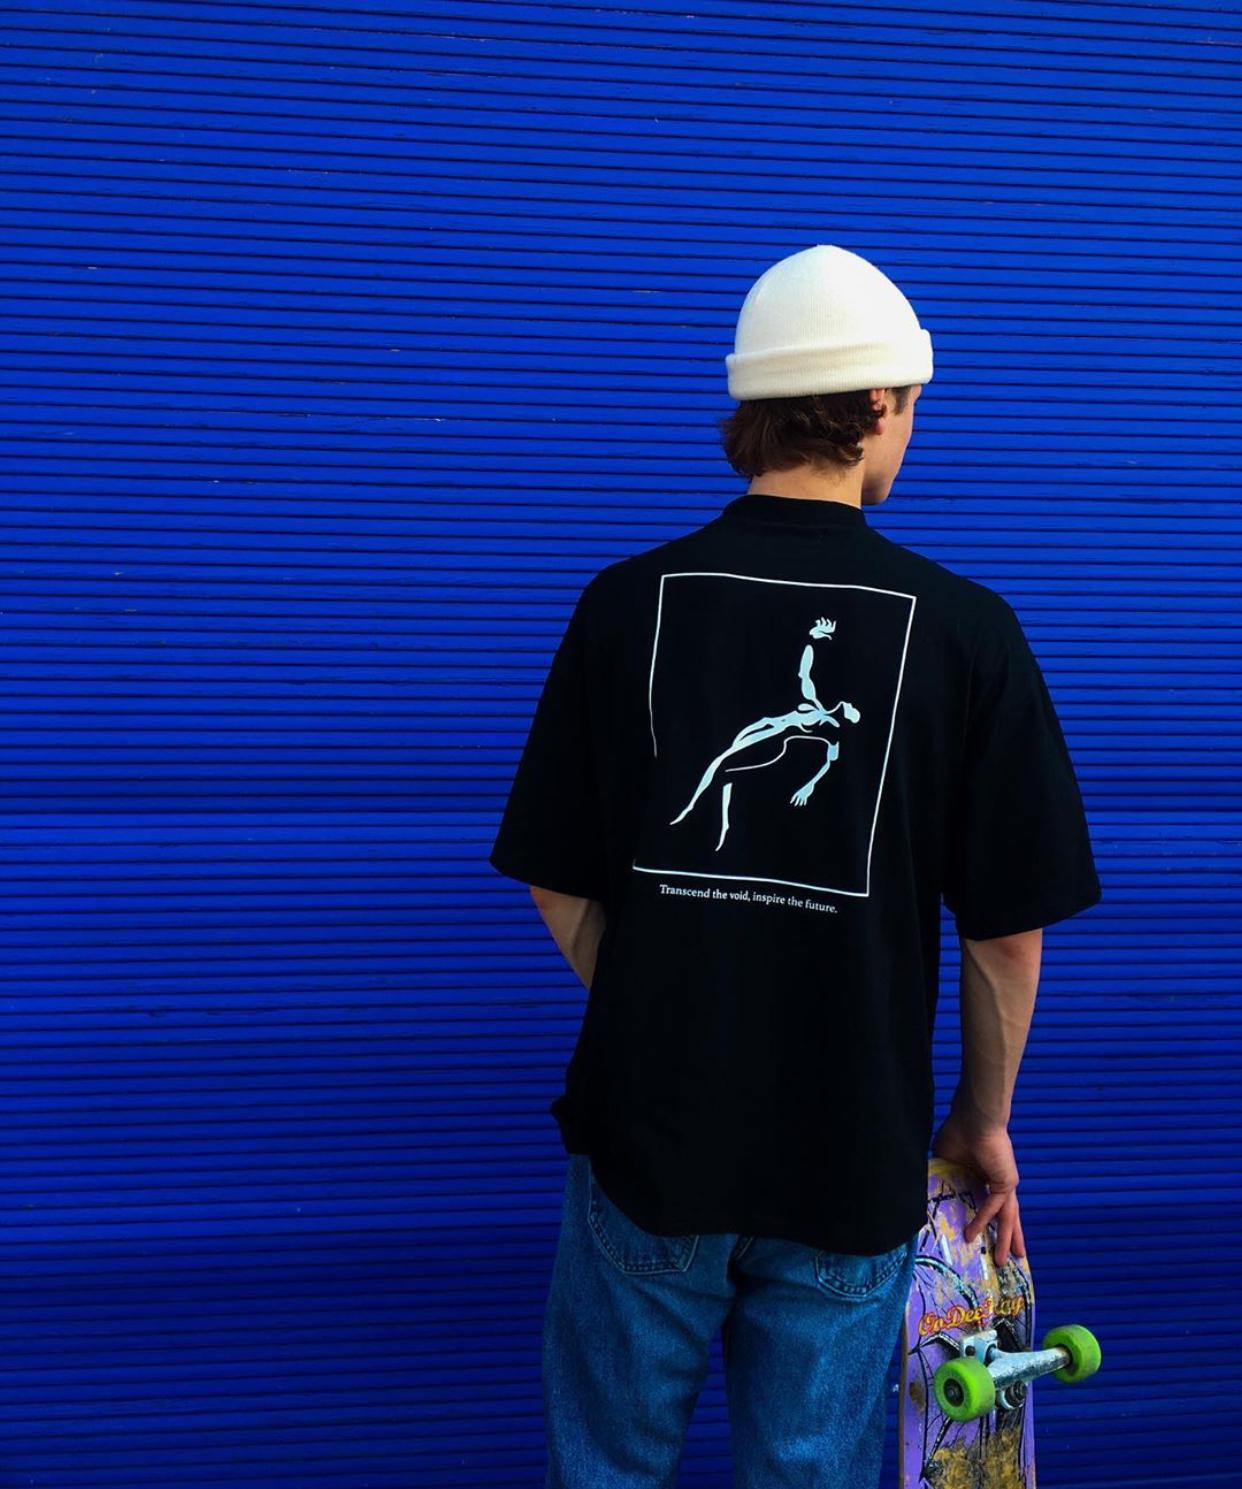
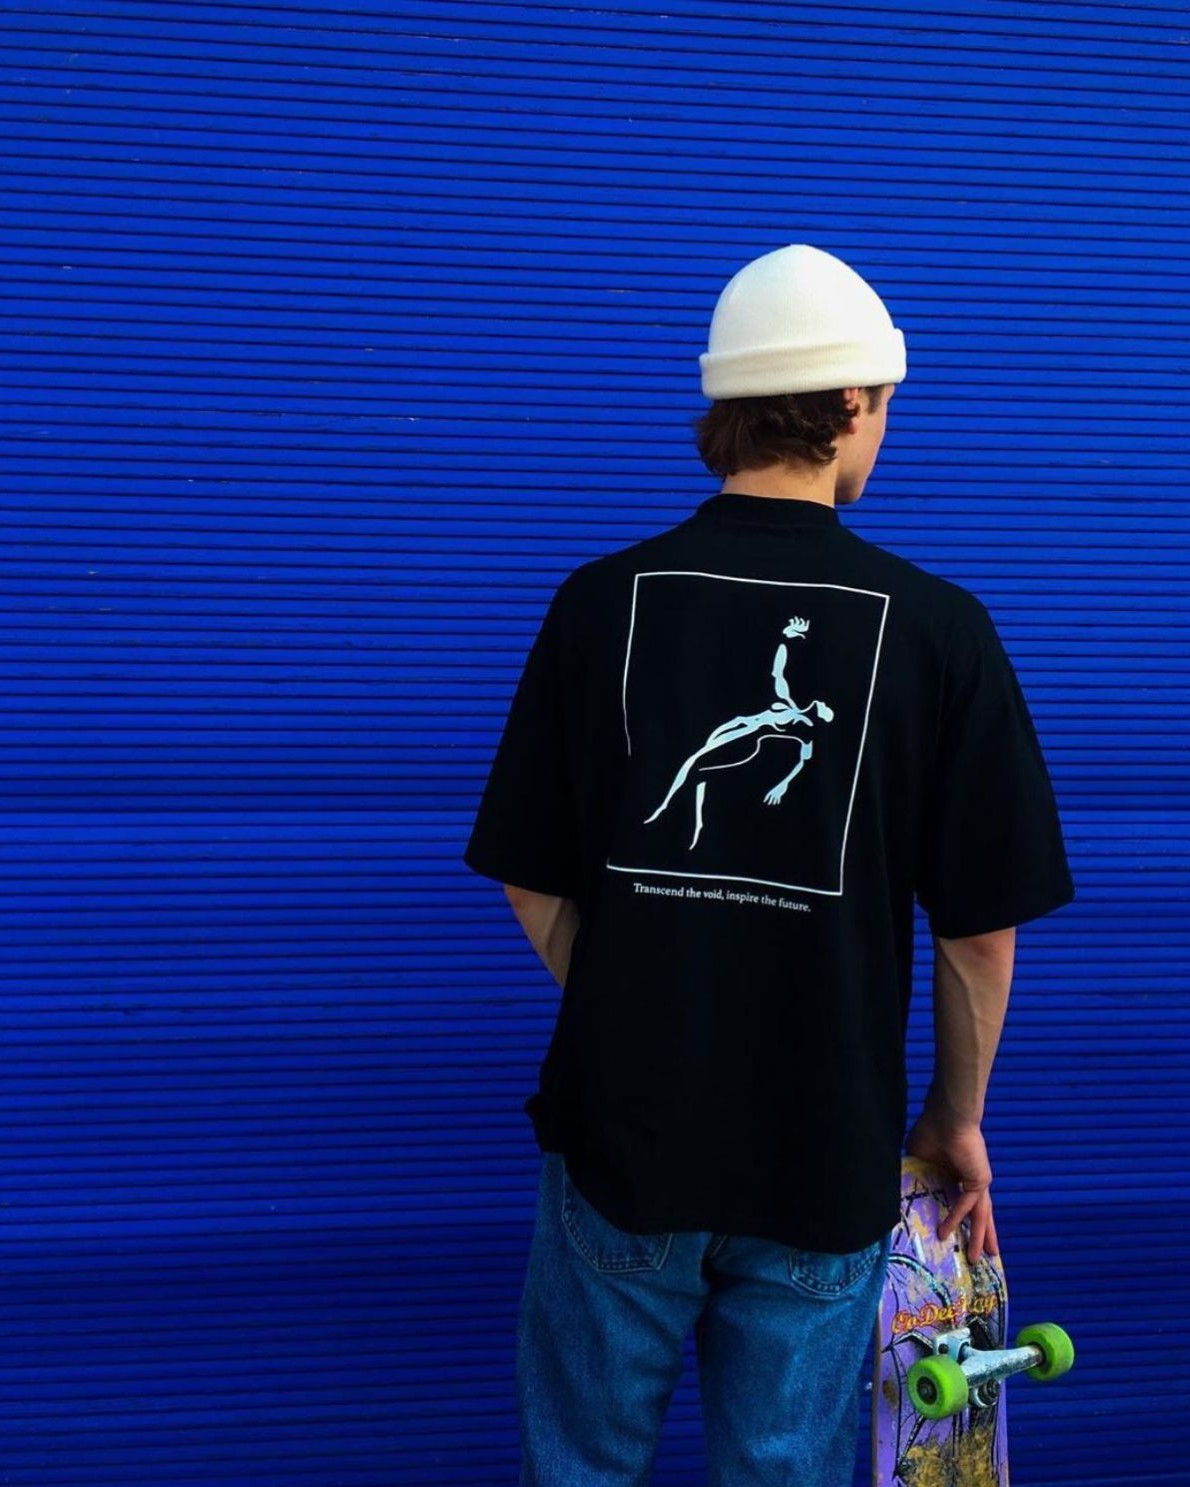
about me afbeeldingen gewijzigd

diff --git a/content/page/2024-12-04-about-me.md b/content/page/2024-12-04-about-me.md
@@ -8,6 +8,10 @@ imagegallery:
   carouselgrid: grid
   galleryImages:
     - /img/ik_homepage.jpg
+    - /img/img-20250115-wa0014.jpg
+    - /img/img-20250115-wa0015.jpg
+    - /img/img-20250115-wa0016.jpg
+    - /img/img-20250115-wa0013.jpg
 thumbnail: /img/pexels-alfomedeiros-12918477.jpg
 date: 2024-12-04T16:42:52.266Z
 layoutpage: layout3
@@ -15,5 +19,3 @@ description: ""
 promoted: "0"
 ---
 I am Louka, 22 years old, currently pursuing an academic bachelor's degree in Media and Information Design. Before this, I studied interior design for a year and a half, but I discovered that my passion lies more in visual communication and storytelling through design. In my free time, I enjoy drawing and can often be found on my BMX or skateboard. These hobbies give me freedom and inspiration. With my creativity and eye for detail, I aim to create unique designs in the future that resonate with people. Until then, I’ll keep enjoying what I do and learning every day.
-
-**(The images will follow later)**
